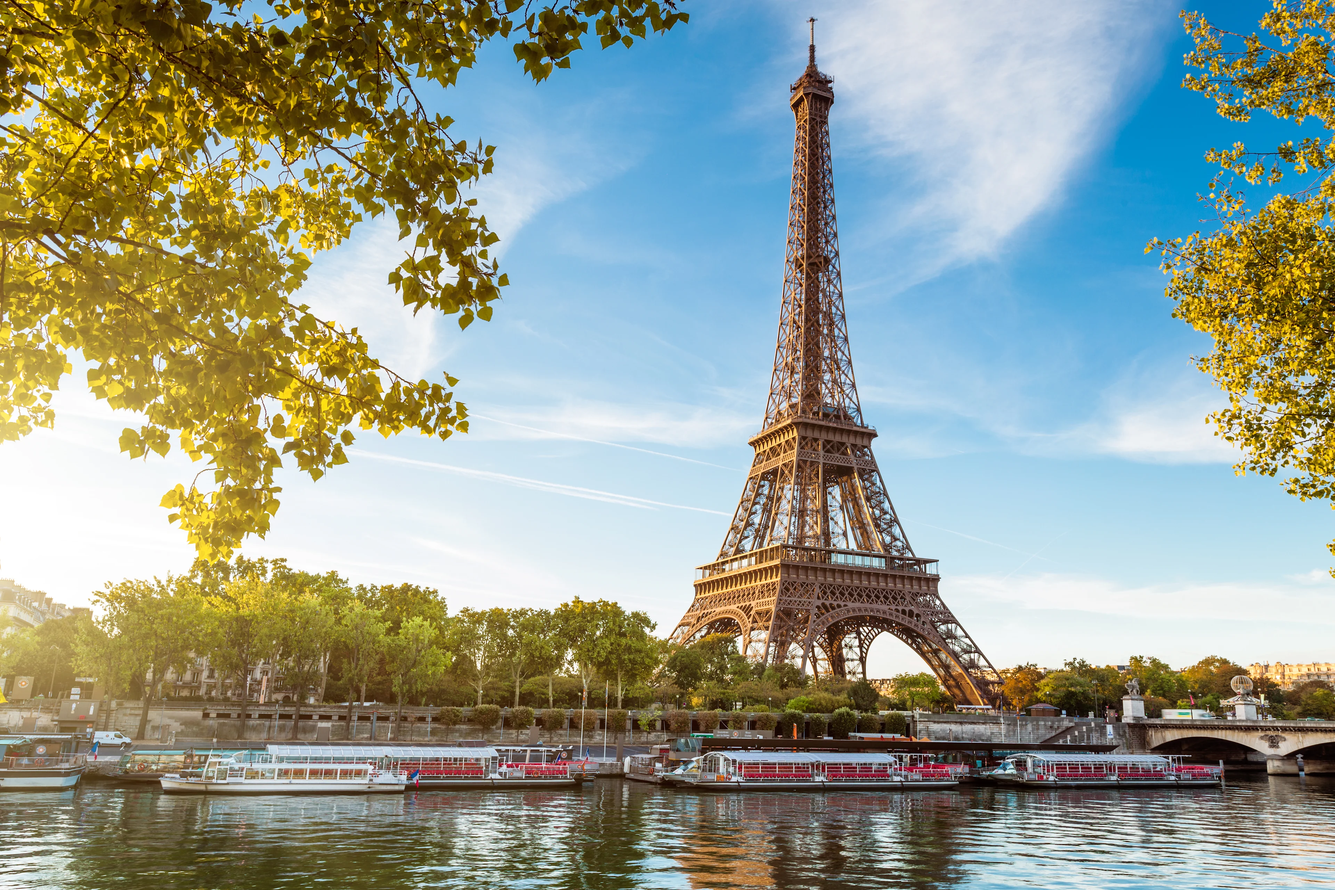
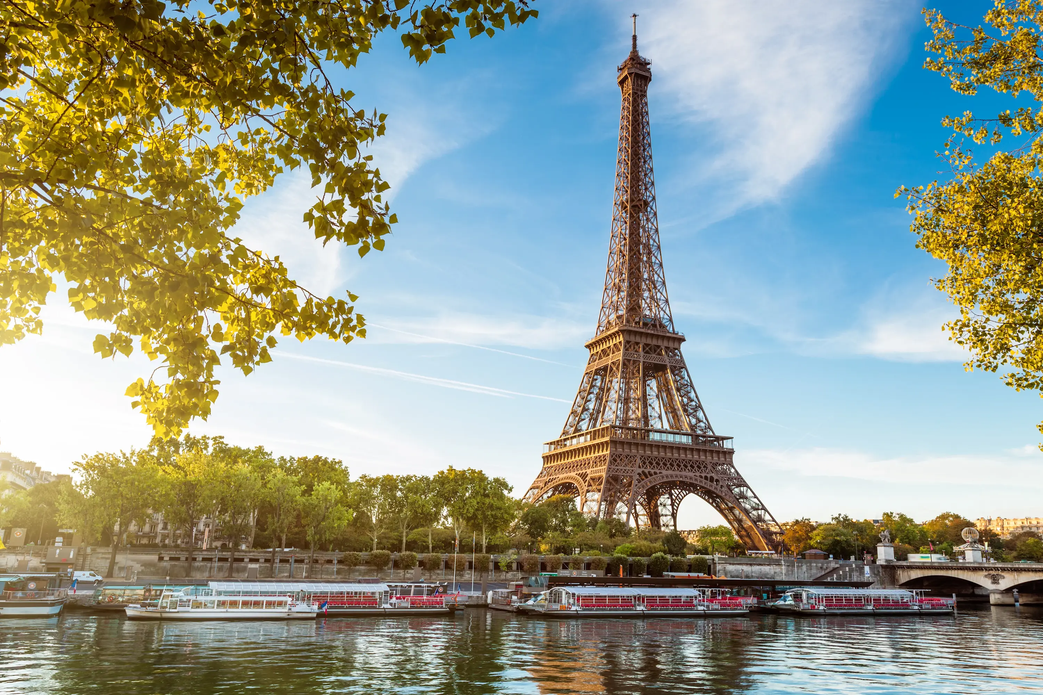
Adicionando navegação react-router

diff --git a/src/components/Header.jsx b/src/components/Header.jsx
@@ -1,10 +1,12 @@
+import { NavLink } from "react-router-dom"
+
 import logo from "../assets/logo-orbita-white.png"
 import phone from "../assets/icons/icon-phone.png"
 import help from "../assets/icons/icon-help.png"
 import login from "../assets/icons/icon-login.png"
 
 import "./Header.css"
- 
+
 function Header() {
   return (
     <header className="header">
@@ -23,18 +25,76 @@ function Header() {
             <img src={login} alt="Login" /> Login
           </button>
         </div>
-        
+
       </div>
 
       <div className="navBar">
         <nav className="nav">
-          <a href="hospedagem.html" className="active">Hospedagem</a>
-          <a href="passagens.html">Passagens</a>
-          <a href="pacotes.html">Pacotes</a>
-          <a href="ofertas.html">Ofertas</a>
-          <a href="nacionais.html">Nacionais</a>
-          <a href="internacionais.html">Internacionais</a>
-          <a href="ver-mais.html">Ver mais</a>
+
+          {/* NavLink é igual o 'a' do html; isActive detecta a rota que está ativa e alterar o active */}
+          <NavLink
+            to="/hospedagem"
+            className={({ isActive }) =>
+              isActive ? "active" : ""
+            }
+          >
+            Hospedagem
+          </NavLink>
+
+          <NavLink
+            to="/passagens"
+            className={({ isActive }) =>
+              isActive ? "active" : ""
+            }
+          >
+            Passagens
+          </NavLink>
+
+          <NavLink
+            to="/pacotes"
+            className={({ isActive }) =>
+              isActive ? "active" : ""
+            }
+          >
+            Pacotes
+          </NavLink>
+
+          <NavLink
+            to="/ofertas"
+            className={({ isActive }) =>
+              isActive ? "active" : ""
+            }
+          >
+            Ofertas
+          </NavLink>
+
+          <NavLink
+            to="/nacionais"
+            className={({ isActive }) =>
+              isActive ? "active" : ""
+            }
+          >
+            Nacionais
+          </NavLink>
+
+          <NavLink
+            to="/internacionais"
+            className={({ isActive }) =>
+              isActive ? "active" : ""
+            }
+          >
+            Internacionais
+          </NavLink>
+
+          <NavLink
+            to="/ver-mais"
+            className={({ isActive }) =>
+              isActive ? "active" : ""
+            }
+          >
+            Ver mais
+          </NavLink>
+
         </nav>
       </div>
 

diff --git a/src/App.jsx b/src/App.jsx
@@ -1,21 +1,30 @@
-import { useState } from 'react'
+import { Routes, Route, Navigate } from "react-router-dom"
+
 import Header from './components/Header'
 import BackgroundImage from './components/Background-img'
-import Hospedagem from './pages/hospedagem/Hospedagem'
 import Footer from './components/Footer'
+
+import Hospedagem from './pages/hospedagem/Hospedagem'
+import Pacotes from './pages/pacotes/Pacotes'
 
 
 function App() {
-
   return (
     <>
       <Header />
+
       <BackgroundImage />
-      <Hospedagem />
+
+      <Routes>
+         <Route path="/" element={<Navigate to="/Hospedagem" />} /> {/* Ao acessar o site, já vai automaticamente para pagina hospedagem*/}
+        <Route path="/hospedagem" element={<Hospedagem />} />
+        <Route path="/pacotes" element={<Pacotes />} />
+      </Routes>
+
       <Footer />
     </>
   )
 }
 
-export default App 
+export default App
 

diff --git a/src/pages/hospedagem/Hospedagem.jsx b/src/pages/hospedagem/Hospedagem.jsx
@@ -1,5 +1,5 @@
 import hotelMaceio from "../../assets/hotel/hotel-maceio.webp"
-import hotelLondres from "../../assets/hotel/hotel-londres.jpg"
+import hotelLondres from "../../assets/hotel/hotel-londres.webp"
 import hotelParis from "../../assets/hotel/hotel-paris.jpg"
 import hotelRio from "../../assets/hotel/hotel-rj.jpg"
 import hotelCancun from "../../assets/hotel/hotel-cancun.jpg"

diff --git a/src/main.jsx b/src/main.jsx
@@ -1,10 +1,15 @@
 import { StrictMode } from 'react'
 import { createRoot } from 'react-dom/client'
+
+import { BrowserRouter } from 'react-router-dom'
+
 import './index.css'
 import App from './App.jsx'
 
 createRoot(document.getElementById('root')).render(
   <StrictMode>
-    <App />
+    <BrowserRouter>
+      <App />
+    </BrowserRouter>
   </StrictMode>
 )

diff --git a/src/pages/pacotes/Pacotes.jsx b/src/pages/pacotes/Pacotes.jsx
@@ -1,4 +1,4 @@
-import maceio from "../../assets/pacote/maceio.jpg"
+import maceio from "../../assets/pacote/maceio.webp"
 import rio from "../../assets/pacote/rio.webp"
 import paris from "../../assets/pacote/paris.webp"
 import londres from "../../assets/pacote/londres.avif"

diff --git a/src/components/Background-img.jsx b/src/components/Background-img.jsx
@@ -1,4 +1,4 @@
-import bg from "../assets/background-hero.jpg"
+import bg from "../assets/background-hero.webp"
 import "./Background-img.css"
 
 function BackgroundImage() {
